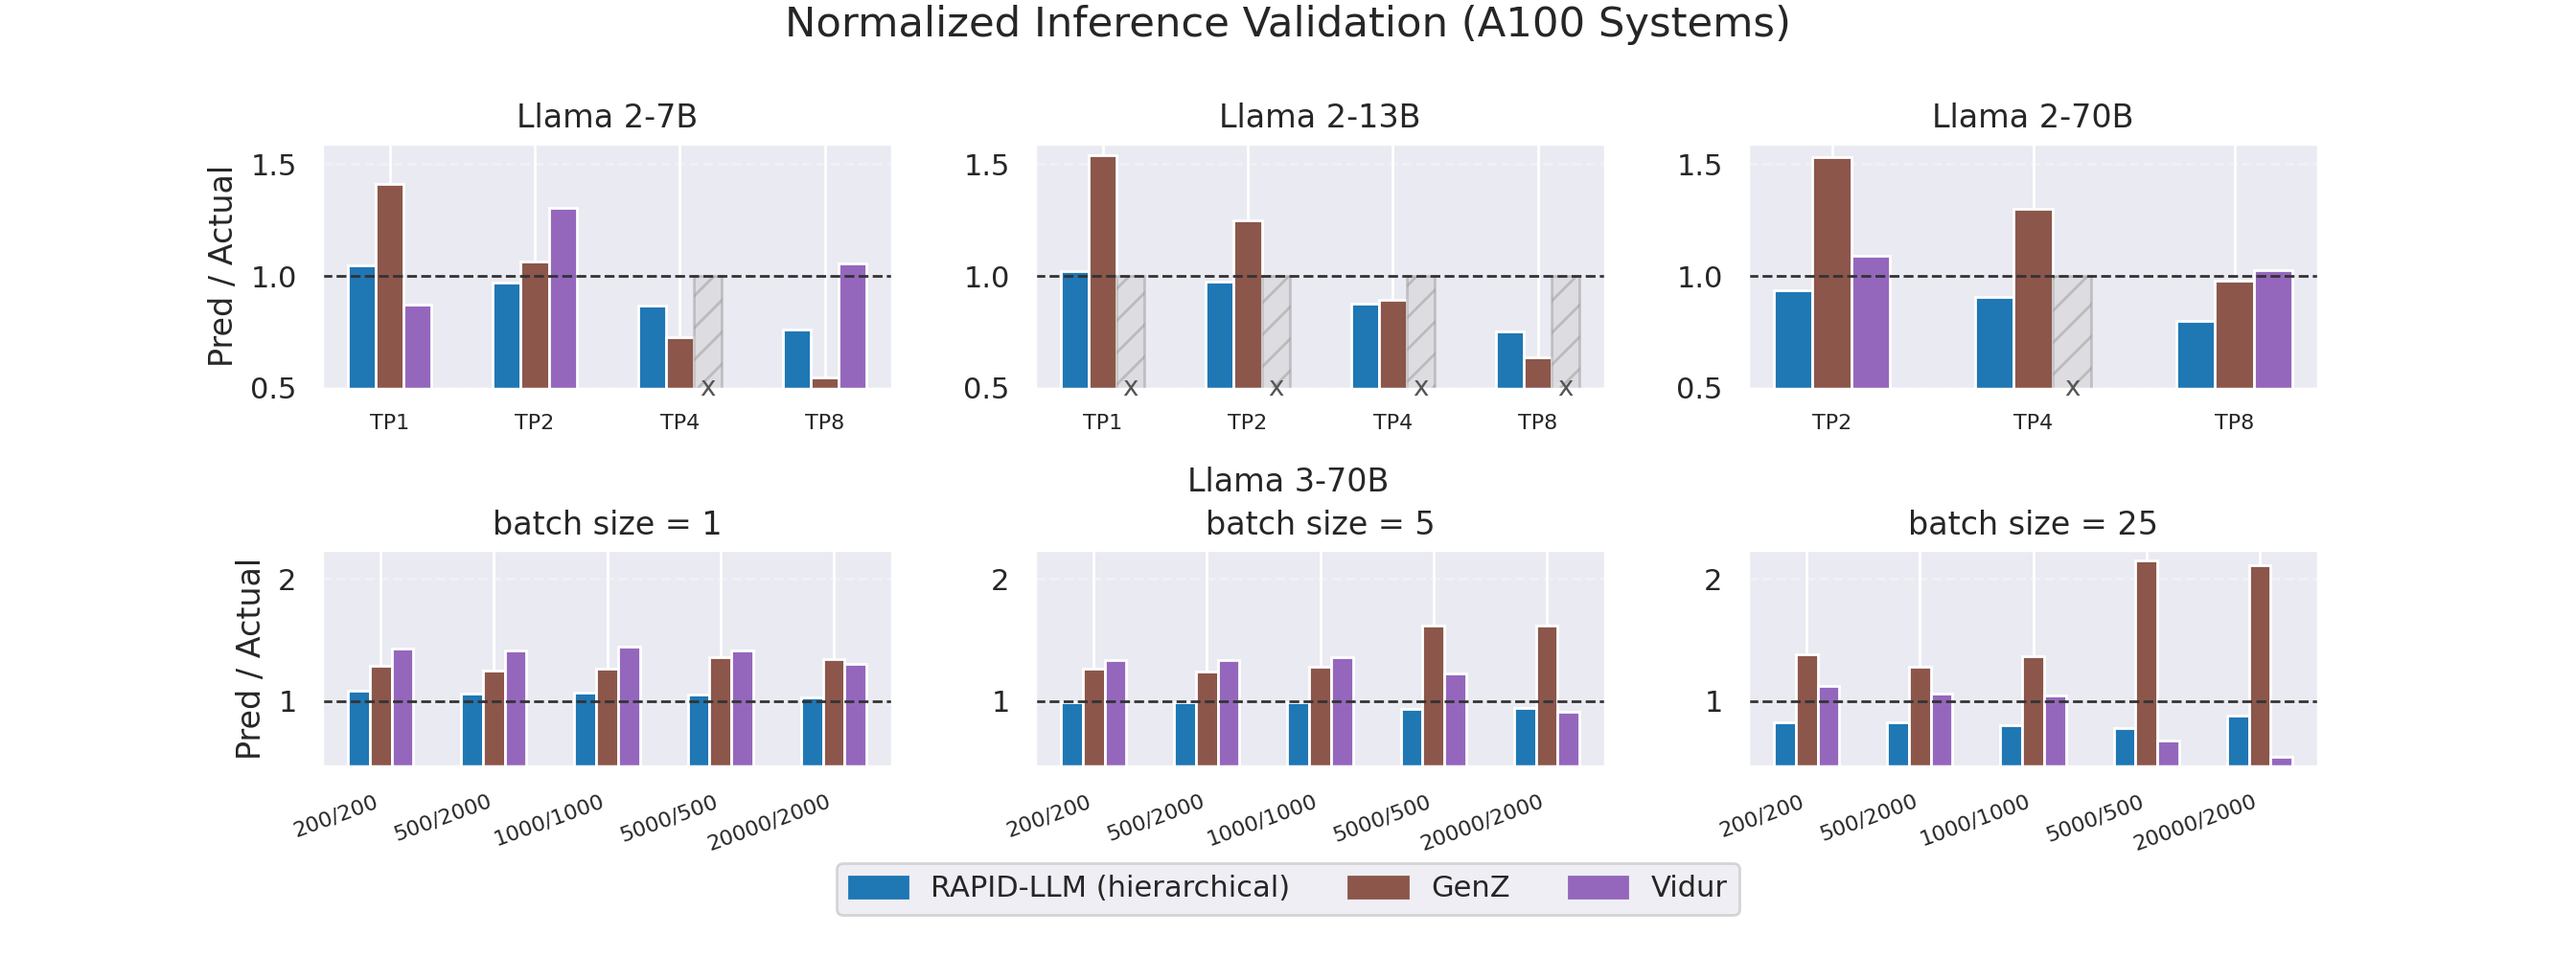
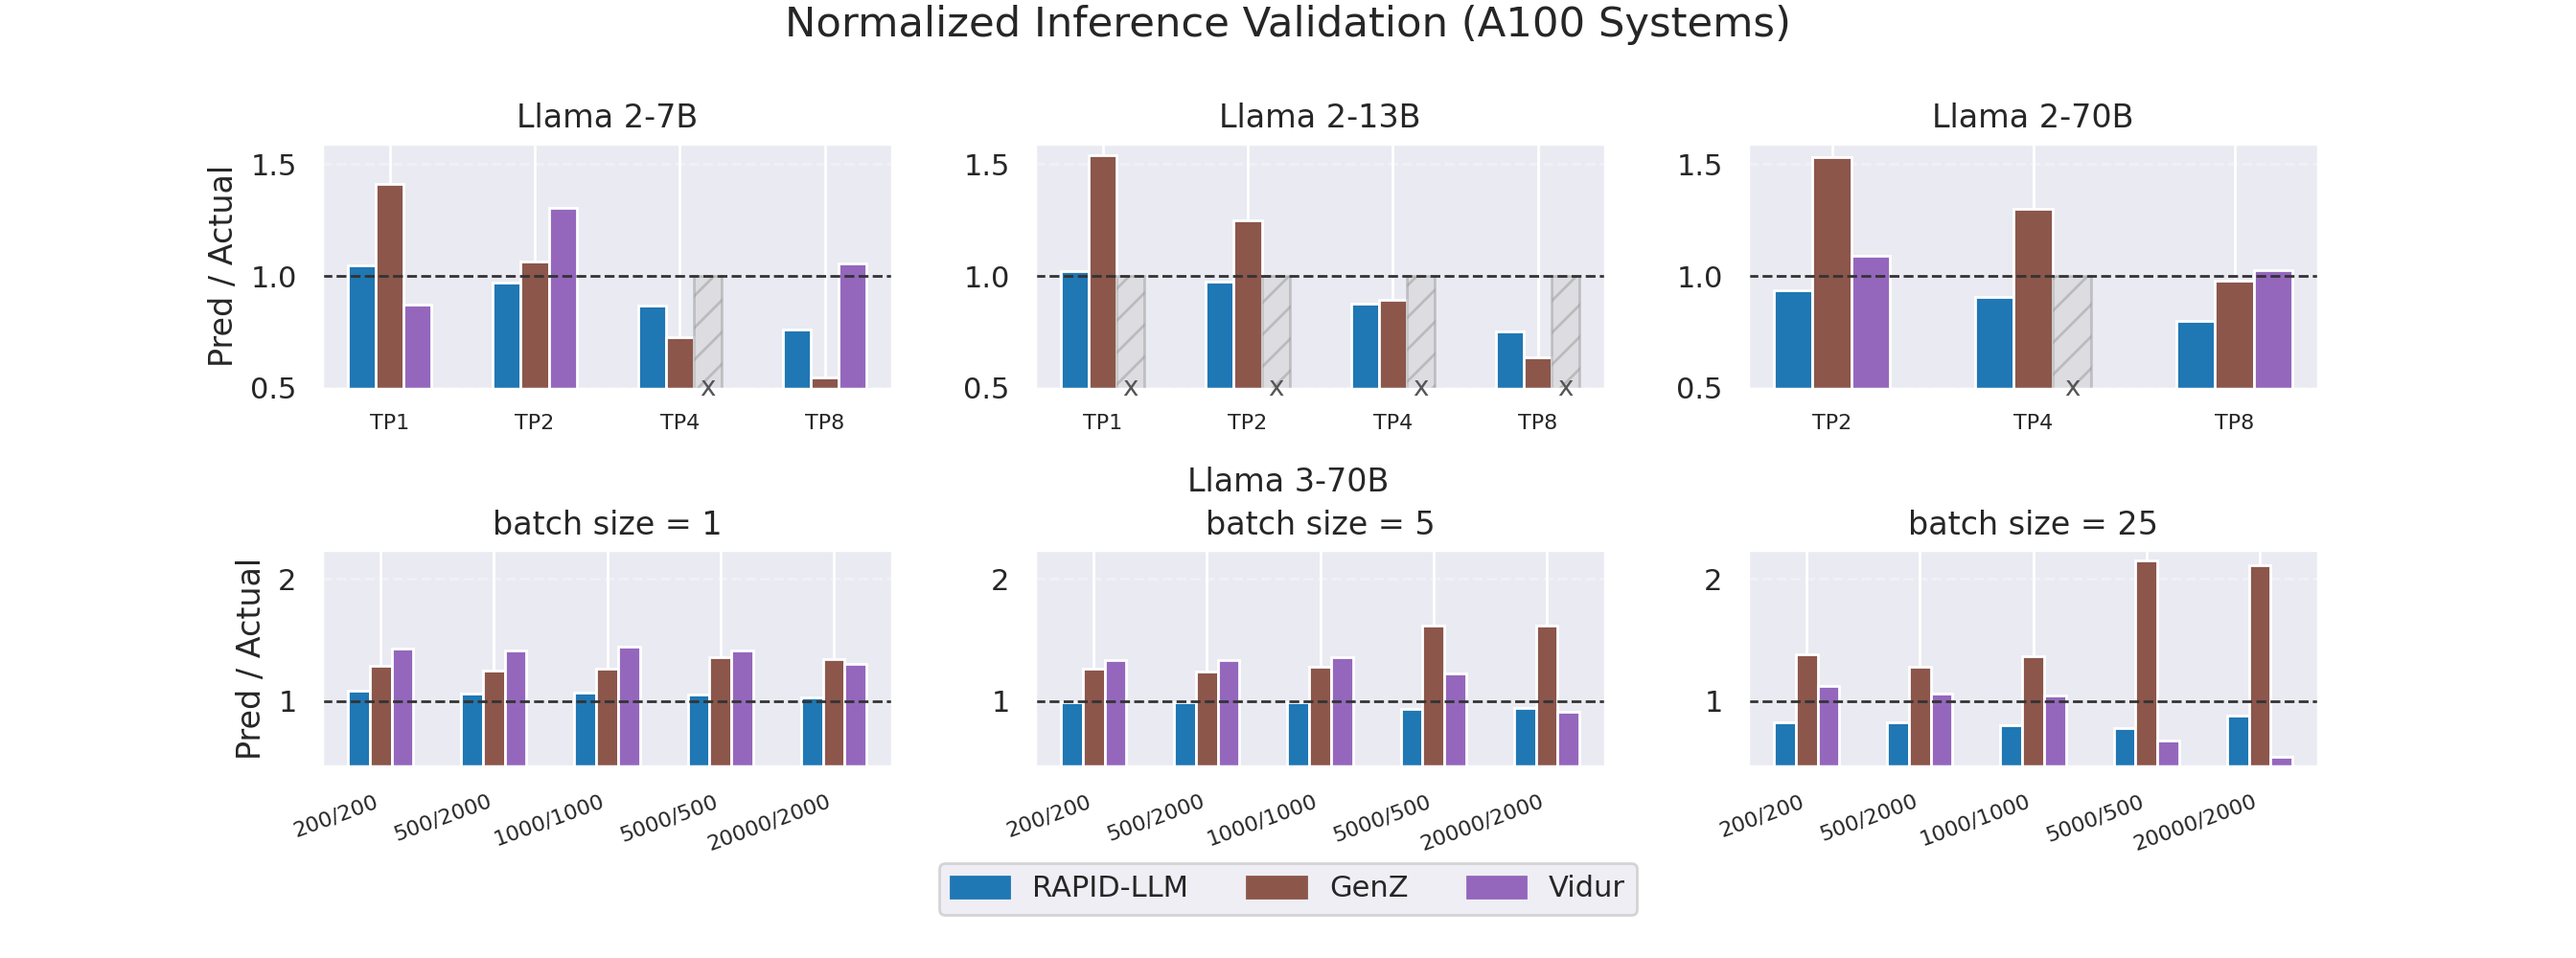
nvidia_inf: re-enable H100 device loop; H100 ratio-grid figure (28 rows, 5.44% MAPE); rows cache + --cached-rows replotting; legend RAPID-LLM; log resolved hw config
A100 unchanged (9.84%, regenerated bar-identical from cache).

Changed region(s): [[0.3125, 0.899, 0.6875, 0.961]]

diff --git a/validation_scripts/nvidia_inf.py b/validation_scripts/nvidia_inf.py
@@ -15,6 +15,7 @@
 
 import argparse
 import copy
+import json
 import math
 import os
 from functools import lru_cache
@@ -32,7 +33,7 @@ COMPARE_VIDUR = True
 COMPARE_GENZ = True
 COMPARE_FLATTENED = False
 
-RAPID_HIER_LABEL = "RAPID-LLM (hierarchical)"
+RAPID_HIER_LABEL = "RAPID-LLM"
 RAPID_FLAT_LABEL = "RAPID-LLM (flattened)"
 
 TOOL_COLORS = {
@@ -2188,6 +2189,8 @@ def run(
     specs, actual_lookup, base_model_path, hw_config_path = build_specs_for_device(
         device, network_ignored=network_ignored, models=models, fit_model=not test_model
     )
+    if emit_logs:
+        print(f"[nvidia_inf] IMEC suite device={device} hardware config: {hw_config_path}")
 
     validation_results = run_validation_suite(
         specs,
@@ -2346,6 +2349,8 @@ def run_nvidia(
     specs, actual_lookup, base_model_path, hw_config_path = build_nvidia_specs_for_device(
         device, network_ignored=network_ignored, models=models
     )
+    if emit_logs:
+        print(f"[nvidia_inf] NVIDIA suite device={device} hardware config: {hw_config_path}")
 
     validation_results = run_validation_suite(
         specs,
@@ -3727,6 +3732,139 @@ def _plot_combined_ratio_grids(
     return outpath
 
 
+def _plot_combined_ratio_grids_h100(
+    imec_rows: List[Dict[str, object]],
+    nvidia_rows: List[Dict[str, object]],
+    outdir: Path,
+) -> Optional[Path]:
+    """RAPID-only H100 ratio grid: left column = IMEC Llama2 TP sweeps (stacked),
+    right column = NVIDIA NIM Llama3-70B batch panels. Same style as the A100 grid."""
+    imec_rows = [row for row in imec_rows if row.get("device") == "H100"]
+    nvidia_rows = [row for row in nvidia_rows if row.get("device") == "H100"]
+    if not imec_rows or not nvidia_rows:
+        return None
+
+    model_order = {"Llama 2-7B": 0, "Llama 2-13B": 1, "Llama 2-70B": 2}
+    models = sorted(
+        {row.get("model") for row in imec_rows if row.get("model")},
+        key=lambda name: (model_order.get(name, 99), str(name)),
+    )
+    tps = sorted({int(row.get("tp")) for row in imec_rows if row.get("tp") is not None})
+    token_pairs = sorted(
+        {(
+            int(row.get("input_tokens")),
+            int(row.get("output_tokens")),
+        ) for row in nvidia_rows if row.get("input_tokens") is not None and row.get("output_tokens") is not None}
+    )
+    concurrencies = sorted(
+        {int(row.get("concurrency")) for row in nvidia_rows if row.get("concurrency") is not None}
+    )
+    if not models or not tps or not token_pairs or not concurrencies:
+        return None
+
+    imec_ratio: Dict[Tuple[object, object], float] = {}
+    for row in imec_rows:
+        imec_ratio[(row.get("model"), int(row.get("tp")))] = _safe_ratio(
+            row.get("inference_time_s"), row.get("actual_inference_time_s")
+        )
+    nvidia_ratio: Dict[Tuple[int, int, int], float] = {}
+    for row in nvidia_rows:
+        nvidia_ratio[(
+            int(row.get("input_tokens")),
+            int(row.get("output_tokens")),
+            int(row.get("concurrency")),
+        )] = _safe_ratio(row.get("inference_time_s"), row.get("actual_inference_time_s"))
+
+    rapid_color = TOOL_COLORS[RAPID_HIER_LABEL]
+    n_rows = max(len(models), len(concurrencies))
+    fig_w = 9.0
+    fig_h = 2.1 * n_rows + 1.4
+    fig = plt.figure(figsize=(fig_w, fig_h))
+    gs = fig.add_gridspec(n_rows, 2, wspace=0.25, hspace=0.55)
+
+    bar_width = 0.6
+    group_gap = 1.3
+
+    def _finite(vals: Iterable[float]) -> List[float]:
+        return [v for v in vals if isinstance(v, (int, float)) and math.isfinite(v)]
+
+    left_vals = _finite(imec_ratio.values()) + [1.0]
+    left_span = max(max(left_vals) - min(left_vals), 0.1)
+    left_pad = 0.05 * left_span
+    left_limits = (min(left_vals) - left_pad, max(left_vals) + left_pad)
+
+    right_vals = _finite(nvidia_ratio.values()) + [1.0]
+    right_span = max(max(right_vals) - min(right_vals), 0.1)
+    right_pad = 0.05 * right_span
+    right_limits = (min(right_vals) - right_pad, max(right_vals) + right_pad)
+
+    def _draw_missing(ax, pos: float, limits: Tuple[float, float]) -> None:
+        ax.bar(
+            pos,
+            1.0,
+            bar_width,
+            color="#c9c9c9",
+            alpha=0.4,
+            edgecolor="#8a8a8a",
+            hatch="//",
+        )
+        y_mid = 0.5 * (limits[0] + limits[1])
+        ax.text(pos, y_mid, "x", ha="center", va="center", fontsize=10, color="#555555")
+
+    for row_idx, model in enumerate(models):
+        ax = fig.add_subplot(gs[row_idx, 0])
+        display_model = MODEL_DISPLAY.get(str(model), str(model))
+        x_positions = [idx * group_gap for idx in range(len(tps))]
+        for pos, tp in zip(x_positions, tps):
+            height = imec_ratio.get((model, tp), float("nan"))
+            if isinstance(height, (int, float)) and math.isfinite(height):
+                ax.bar(pos, height, bar_width, color=rapid_color)
+            else:
+                _draw_missing(ax, pos, left_limits)
+        ax.axhline(1.0, color="#333333", linestyle="--", linewidth=1.0)
+        ax.set_ylim(*left_limits)
+        ax.set_title(display_model)
+        ax.set_xticks(x_positions)
+        ax.set_xticklabels([f"TP{tp}" for tp in tps], fontsize=8)
+        ax.grid(axis="y", linestyle="--", alpha=0.3)
+        ax.set_ylabel("Pred / Actual")
+
+    x_positions = [idx * group_gap for idx in range(len(token_pairs))]
+    x_labels = [f"{inp}/{out}" for inp, out in token_pairs]
+    for row_idx, concurrency in enumerate(concurrencies):
+        ax = fig.add_subplot(gs[row_idx, 1])
+        for pos, (inp, out) in zip(x_positions, token_pairs):
+            height = nvidia_ratio.get((inp, out, concurrency), float("nan"))
+            if isinstance(height, (int, float)) and math.isfinite(height):
+                ax.bar(pos, height, bar_width, color=rapid_color)
+            else:
+                _draw_missing(ax, pos, right_limits)
+        ax.axhline(1.0, color="#333333", linestyle="--", linewidth=1.0)
+        ax.set_ylim(*right_limits)
+        ax.set_title(f"batch size = {concurrency}")
+        ax.set_xticks(x_positions)
+        ax.set_xticklabels(x_labels, rotation=20, ha="right", fontsize=8)
+        ax.grid(axis="y", linestyle="--", alpha=0.3)
+
+    fig.suptitle("Normalized Inference Validation (H100 Systems)", y=0.985)
+    fig.text(0.71, 0.925, "Llama 3-70B", ha="center", va="bottom", fontsize=12)
+    handles = [plt.Rectangle((0, 0), 1, 1, color=rapid_color)]
+    fig.legend(
+        handles,
+        [RAPID_HIER_LABEL],
+        loc="lower center",
+        bbox_to_anchor=(0.5, 0.015),
+        ncol=1,
+    )
+    fig.subplots_adjust(bottom=0.13, top=0.88)
+
+    outdir.mkdir(parents=True, exist_ok=True)
+    outpath = outdir / "inf_ratio_grid_combined_h100.png"
+    fig.savefig(outpath, dpi=200)
+    plt.close(fig)
+    return outpath
+
+
 if __name__ == "__main__":
     parser = argparse.ArgumentParser(
         description="Run NVIDIA inference validation and comparison plots."
@@ -3752,39 +3890,60 @@ if __name__ == "__main__":
         default="ratio",
         help="Choose which combined plot to generate (default: both).",
     )
+    parser.add_argument(
+        "--cached-rows",
+        action="store_true",
+        help="Reuse per-device rows from the rows cache (skips re-running simulations).",
+    )
     args = parser.parse_args()
     _apply_compare_args(args)
 
-    imec_rows = None
-    imec_flattened_rows = None
-    nvidia_rows = None
-    nvidia_flattened_rows = None
+    rows_cache_path = Path(PROJECT_ROOT) / "output" / "validation" / "inf" / "rows_cache.json"
+    cached_rows: Dict[str, Dict[str, object]] = {}
+    if args.cached_rows and rows_cache_path.exists():
+        with open(rows_cache_path) as handle:
+            cached_rows = json.load(handle)
+        print(f"[nvidia_inf] Loaded rows cache: {rows_cache_path}")
+
+    device_rows: Dict[str, Dict[str, object]] = {}
+    for device_name in ("A100", "H100"):
+        entry = cached_rows.get(device_name) or {}
+        if entry.get("imec_rows") and entry.get("nvidia_rows"):
+            print(f"[nvidia_inf] Using cached rows for device={device_name}")
+            device_rows[device_name] = entry
+            continue
+        entry = {}
+        try:
+            # Only build combined plots below; skip per-device plots here.
+            result = run(network_ignored=False, device=device_name)
+            entry["imec_rows"] = result.get("rows")
+            entry["imec_flattened_rows"] = result.get("flattened_rows")
+        except FileNotFoundError:
+            pass
+        try:
+            result = run_nvidia(network_ignored=False, device=device_name)
+            entry["nvidia_rows"] = result.get("rows")
+            entry["nvidia_flattened_rows"] = result.get("flattened_rows")
+        except FileNotFoundError:
+            pass
+        device_rows[device_name] = entry
+
+    rows_cache_path.parent.mkdir(parents=True, exist_ok=True)
+    with open(rows_cache_path, "w") as handle:
+        json.dump(device_rows, handle, indent=1)
+    print(f"[nvidia_inf] Saved rows cache: {rows_cache_path}")
+
+    a100_entry = device_rows.get("A100", {})
+    imec_rows = a100_entry.get("imec_rows")
+    imec_flattened_rows = a100_entry.get("imec_flattened_rows")
+    nvidia_rows = a100_entry.get("nvidia_rows")
+    nvidia_flattened_rows = a100_entry.get("nvidia_flattened_rows")
     llmcompass_rows = None
     llmcompass_nvidia_rows = None
     vidur_rows = None
     vidur_nvidia_rows = None
     genz_nvidia_rows = None
     genz_rows = None
-    # for device_name in ("A100", "H100"):
-    for device_name in ("A100",):
-        try:
-            # Only build combined plots below; skip per-device plots here.
-            result = run(network_ignored=False, device=device_name)
-            if device_name == "A100":
-                imec_rows = result.get("rows")
-                imec_flattened_rows = result.get("flattened_rows")
-        except FileNotFoundError:
-            pass
-    # for device_name in ("A100", "H100"):
-    for device_name in ("A100",):
-        try:
-            # Only build combined plots below; skip per-device plots here.
-            result = run_nvidia(network_ignored=False, device=device_name)
-            if device_name == "A100":
-                nvidia_rows = result.get("rows")
-                nvidia_flattened_rows = result.get("flattened_rows")
-        except FileNotFoundError:
-            pass
     if imec_rows and nvidia_rows:
         out_dir = Path(PROJECT_ROOT) / "output" / "validation" / "inf"
         if COMPARE_LLMCOMPASS:
@@ -3828,3 +3987,40 @@ if __name__ == "__main__":
             )
             if combined_ratio is not None:
                 print(f"Saved: {combined_ratio}")
+
+    h100_entry = device_rows.get("H100", {})
+    h100_imec_rows = h100_entry.get("imec_rows")
+    h100_nvidia_rows = h100_entry.get("nvidia_rows")
+    if h100_imec_rows and h100_nvidia_rows and args.plot in ("ratio", "both"):
+        out_dir = Path(PROJECT_ROOT) / "output" / "validation" / "inf"
+        combined_ratio_h100 = _plot_combined_ratio_grids_h100(
+            h100_imec_rows,
+            h100_nvidia_rows,
+            out_dir,
+        )
+        if combined_ratio_h100 is not None:
+            print(f"Saved: {combined_ratio_h100}")
+
+    def _mape(rows: Optional[List[Dict[str, object]]]) -> Tuple[float, int]:
+        vals = [
+            float(row["pct_error"])
+            for row in (rows or [])
+            if row.get("pct_error") is not None and math.isfinite(float(row["pct_error"]))
+        ]
+        if not vals:
+            return float("nan"), 0
+        return sum(vals) / len(vals), len(vals)
+
+    print("\n=== MAPE summary ===")
+    for summary_device in ("A100", "H100"):
+        entry = device_rows.get(summary_device, {})
+        imec = entry.get("imec_rows") or []
+        nvidia = entry.get("nvidia_rows") or []
+        imec_mape, imec_n = _mape(imec)
+        nvidia_mape, nvidia_n = _mape(nvidia)
+        combined_mape, combined_n = _mape(list(imec) + list(nvidia))
+        print(
+            f"{summary_device}: IMEC MAPE {imec_mape:.2f}% ({imec_n} rows) | "
+            f"NIM MAPE {nvidia_mape:.2f}% ({nvidia_n} rows) | "
+            f"combined MAPE {combined_mape:.2f}% ({combined_n} rows)"
+        )
